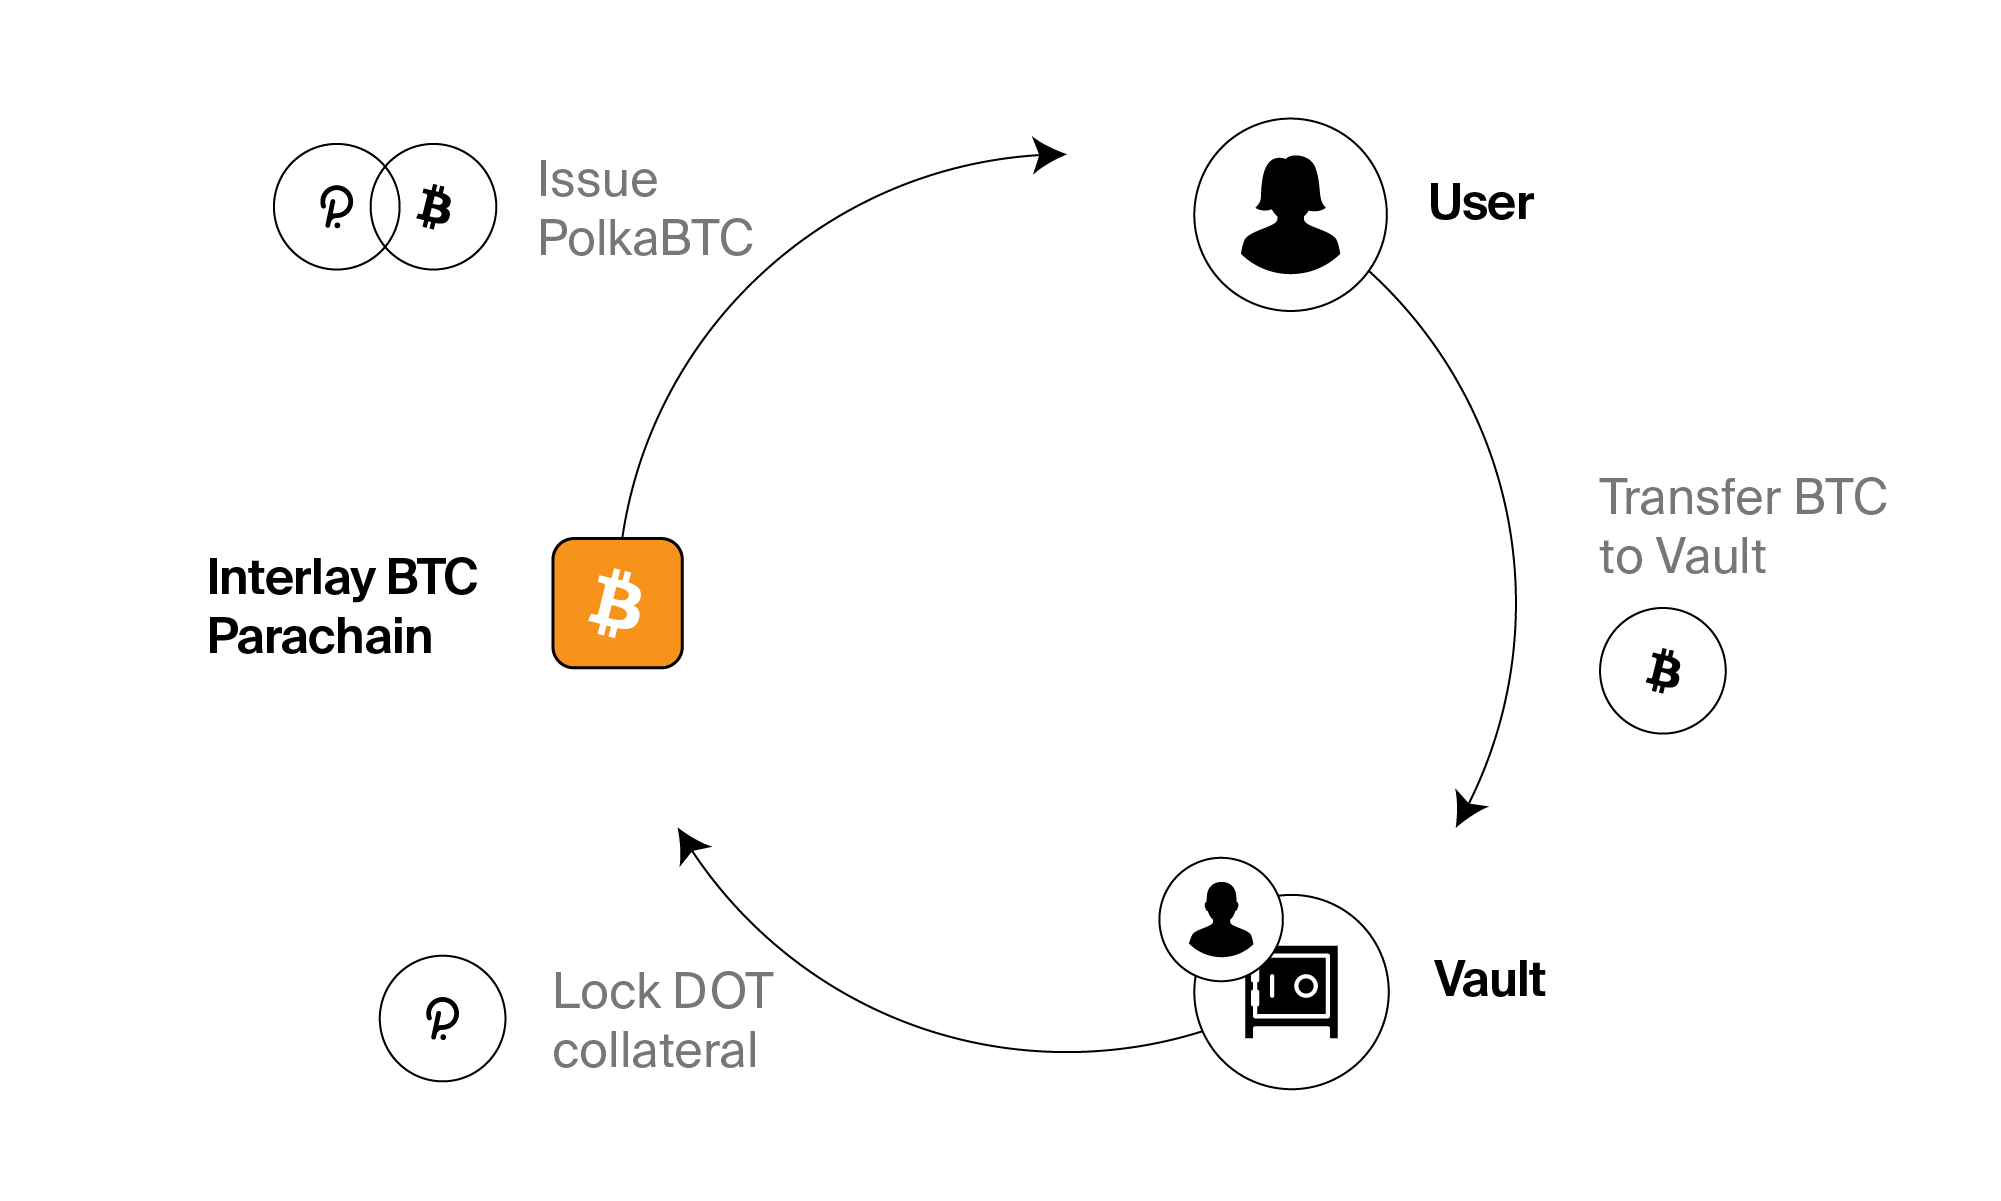
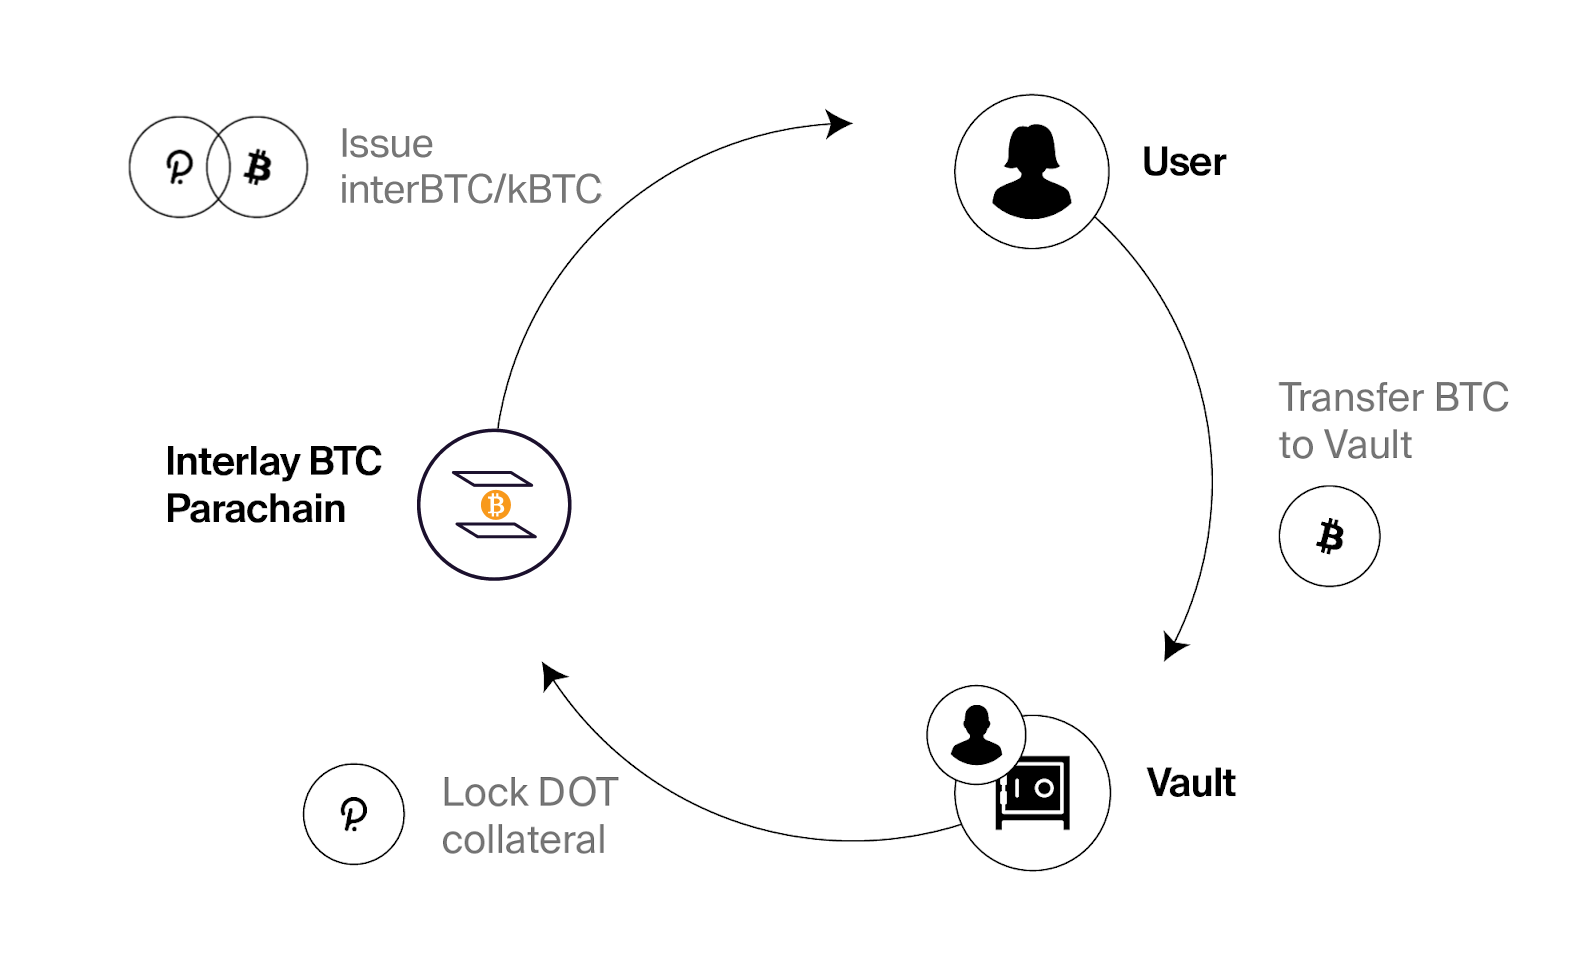
feat: restructuring the documentation and adding a new introduction section

diff --git a/docs/custom.css b/docs/custom.css
@@ -1,19 +1,40 @@
 
 :root {
-  --base-font: 12px;
-  --theme-color   :#1A0A2D;
-  --sidebar-padding: 0 25px;
-  --navbar-menu-padding: 0.5em 2em 0.5em 0.5em;
-  --primary-blue: #075ABC;
-  --secondary-teal: #1EE0D6;
-  --secondary-green: #A2E75E;
-  --secondary-blue: #3E96FF;
-  --secondary-purple: #A65AFF;
-  --secondary-pink: #DB5AAD;
-  --secondary-bitcoin: #FF9900;
-  --theme-color: var(--primary-blue);
+
+  /* Base config */
+  --base-font-size      : 16px;
+  --sidebar-padding     : 0 25px;
+  --navbar-menu-padding : 0.5em 2em 0.5em 0.5em;
+
+
+  /* Theme and Colors */
+  --primary-interlay    : #1A0A2D;
+  --primary-blue        : #075ABC;
+  --secondary-teal      : #1EE0D6;
+  --secondary-green     : #A2E75E;
+  --secondary-blue      : #3E96FF;
+  --secondary-purple    : #A65AFF;
+  --secondary-pink      : #DB5AAD;
+  --secondary-bitcoin   : #FF9900;
+  --theme-color         : var(--primary-interlay);
+  --primary-blue-shade  : hsl(212, 30%, 38%); 
+  --hover-color         : #D3D3D3;
+
+  /* Links */
+  --link-color                        : var(--primary-blue);
+  --link-text-decoration              : none;
+  --link-text-decoration--hover       : underline;
+
+
+  /* Sidebar */
+  --sidebar-nav-link-color--active              : var(--primary-blue);
+  --sidebar-nav-link-background-color--hover     : var(--hover-color);
+  --sidebar-nav-link-text-decoration--hover     : none;
+  --sidebar-nav-strong-color                    : var(--secondary-purple );
+  --sidebar-nav-strong-font-size                : ;
+
 }
 
 .app-name-link img {
-  width: 5em;
+  width: 10em;
 }

diff --git a/docs/index.html b/docs/index.html
@@ -27,8 +27,8 @@
       auto2top: true,
       themeColor: '#1A0A2D',
       mergeNavbar: true,
-      name: 'Docs',
-      logo: './_assets/img/InterBTC_Icon_RGB.svg',
+      name: 'Interlay and Kintsugi Documentation',
+      logo: './_assets/img/Interlay_Horizontal_RGB.svg',
       repo: 'https://github.com/interlay/interbtc-docs',
       search: 'auto',
       tabs: {

diff --git a/docs/getting-started/interbtc.md b/docs/getting-started/interbtc.md
@@ -1,0 +1,118 @@
+# interBTC: Bitcoin on Any Blockchain
+
+
+## Overview 
+
+interBTC is a 1:1 Bitcoin backed asset that can be used to invest, earn and pay with BTC across the DeFi ecosystem on Polkadot, Ethereum, Cosmos and many more. 
+
+While interBTC exists, BTC held locked by Vaults on Bitcoin - individuals or service providers who 
+ - (1) receive BTC into custody for safekeeping while interBTC exists,
+ - (2) lock collateral in a MakerDAO-inspired multi-collateral system to protect users against theft and loss of BTC. 
+
+
+The life-cycle of interBTC follows four main phases:
+
+![Cryptocurrency-backed Assets](../_assets/img/CbA.jpg)
+
+- **Lock:** Lock your BTC with a Vault. Pick one, or run your own. Your BTC is always safe and insured by Vault collateral.
+- **Mint:** Get interBTC at a 1:1 ration to your locked BTC.
+- **BTC DeFi:** Earn on your Bitcoin. Use interBTC as collateral, for lending, yield farming and more. On Polkadot, Kusama, Cosmos, Ethereum and other major DeFi platforms.
+- **Redeem:** Redeem interBTC for actual BTC on Bitcoin - trustless and anytime you want.
+
+
+
+## interBTC Security
+
+What makes interBTC unique is the strict dedication to being trustless and decentralized.
+
+- **Secured by Insurance**. Vaults lock collateral on the interBTC parachain in various digital assets - in a MakerDAO-inspired multi-collateral system. If Vaults misbehave, their collateral is slashed and users reimbursed. As a user, you only trust that Bitcoin and the DeFi platform you use are secure.
+
+- **Radically Open**. Anyone can become a Vault and help secure interBTC, anytime. Yes, you can run your own Vault!
+
+Hence, as a holder of interBTC, you have the following guarantee:
+
+?> You can always redeem interBTC for BTC, or be reimbursed in the collateral currency at a beneficial rate.
+
+In the a Vault misbehaves, you will be reimbursed from the Vault’s collateral and will end up making a *profitable* trade between BTC and and the collateral asset(s). 
+
+At launch, collateral will be put down in DOT. In the mid/long run, this may be extended to stablecoins or token-sets to improve stability.
+
+Summarizing, to trust interBTC, you only need to:
+
+- *Trust that Bitcoin is secure*. Meaning: trust that Bitcoin blocks are final after X confirmations. The bridge will recommend a minimum of 6 confirmations, though users and apps are encouraged to set higher thresholds.
+- *Trust that Polkadot / the chain you are using interBTC on is secure* . This assumption is made by all applications running on top of Polkadot.
+
+?> interBTC is based on the XCLAIM framework - a peer-reviewed paper published at IEEE S&P, one of the most prestigious security conferences. You can [read the paper](https://eprint.iacr.org/2018/643.pdf) and checkout more of the [research published by the team behind Interlay](../about/research).
+
+
+?> A more in-depth discussion about security can be found in the 200+ page [specification](https://spec.interlay.io/security_performance/liquidations.html).
+
+## Network Participants
+
+XCLAIM’s design has an emphasis on being open and permissionless. As such, any user can take up multiple roles at the same — but also leave the system whenever they wish. As such, to participate in the BTC Parachain, you can choose from:
+
+**Vaults:** collateralized intermediaries who hold BTC locked on Bitcoin. Any user can become a Vault by simply locking DOT collateral. The requirements are (1) a Bitcoin full node, (2) a Polkadot account and (3) liquidity in accepted collateral assets.
+
+**Users:** there are two types of user on the BTC Parachain:
+
+- **Liquidity Providers** lock BTC with Vaults to mint 1:1 backed *interBTC* on the Parachain. Requirement: (1) Bitcoin wallet and (2) Polkadot wallet.
+
+- **End-Users** obtain interBTC from liquidity providers on Polkadot and use interBTC for payments and with applications. Requirements: Polkadot wallet
+
+Both can redeem owned interBTC for BTC at any time (requires a Bitcoin wallet).
+
+
+**Collators** maintain the Interlay parachain by collecting transactions and producing security proofs which are verified by validators of the Polkadot Relay Chain. This is a Polkadot-specific role. [Read more about Collators in the Polkadot Wiki](https://wiki.polkadot.network/docs/learn-collator).
+
+Parachain’s NPoS consensus, as per Polkadot consensus rules. Requirement: (1) Parachain full node and (2) DOTs.
+
+<div id="step-by-step"></div>
+
+## Mint and Redeem
+
+### Wrap BTC to mint interBTC
+
+A user (liquidity provider) mints new interBTC.
+
+1. A Vault locks DOT as collateral with the interBTC bridge (the Interlay BTC Parachain).
+
+1. A user creates an issue request with a collateralized Vault of his choosing. This reserves the Vault’s DOT collateral.
+
+1. The user then sends BTC to the Vault.
+
+1. The user proofs to the interBTC bridge that it send the BTC to the vault (using a transaction inclusion proof against the BTC Relay).
+
+1. Upon successful verification of the proof, the user mints interBTC and receives the tokens to his or her account balance.
+
+![High-level interBTC Issue process](../_assets/img/issue.png) *High-level interBTC Issue process*
+
+### Redeem interBTC for BTC
+
+A user redeems interBTC for the equivalent amount of BTC or receives DOT as reimbursement.
+
+1. To request a redeem, a user locks interBTC with the interBTC bridge (Interlay BTC Parachain).
+
+1. The Parachain instructs a Vault to execute the redeem.
+
+1. The Vault transfers the correct amount of BTC to the user.
+
+1. To unlock the DOT collateral, the Vault submits a transaction inclusion proof to BTC-Relay.
+
+1. If the proof is correct, the Parachain releases the Vault’s DOTs.
+
+1. If no valid proof is provided on time, the Parachain slashes the Vault’s DOTs and reimburses the user at a beneficial exchange rate.
+
+![High-level interBTC Redeem process](../_assets/img/redeem.png)*High-level interBTC Redeem process*
+
+
+## interBTC vs kBTC
+
+The flagship product of both Kintsugi and Interlay is “trustless Bitcoin for DeFi”. 
+
+kBTC on Kintsugi. interBTC on Interlay.
+
+interBTC and kBTC are the same product at the core, with different parameterizations and risk profiles. Specifically, they will have different backing collaterals and security thresholds.
+
+- **interBTC**. Only assets with large liquidity, which pass a rigorous security analysis, will be accepted as collateral for interBTC — similar to the MakerDAO process for DAI.
+
+- **kBTC**, on the other hand, will be open to more experimental assets, including such that have lower liquidity — e.g. new forms of staking derivatives, LP tokens, young DeFi assets, perhaps even NFTs.

diff --git a/docs/README.md b/docs/README.md
@@ -1,31 +1,26 @@
-# InterBTC & Kintsugi Documentation
+# Interlay & Kintsugi Documentation
+### Invest, earn and pay with BTC on any blockchain. Radically open and secured by insurance.
 
-## Radically Open Bitcoin for Decentralized Finance
 
-**interBTC** is Bitcoin on any blockchain. A 1:1 Bitcoin-backed asset, fully collateralized, interoperable, and censorship-resistant. interBTC will be hosted as a Polkadot parachain and connected to Cosmos, Ethereum and other major DeFi networks.
+### Introduction
 
-**Kintsugi** is interBTC's canary network, an experiment with real economic value deployed on Kusama. Kintsugi and interBTC share the same code base - with the difference that Kintsugi focusses strictly on innovation and will always be ahead in terms of features.
+Interlay is a decentralized network dedicated to connecting crypto-*currencies* like Bitcoin with DeFi *platforms* like Polkadot and Ethereum. The Interlay network is hosted as a Polkadot parachain and will be connected to Cosmos, Ethereum and other major DeFi networks.
+[Read more about Interlay's vision of blockchain interoperability](https://medium.com/interlay/the-future-of-bridging-assets-837998115f6b).
 
-![Cryptocurrency-backed Assets](_assets/img/CbA.jpg)
+**interBTC**, Interlay's flagshipt product, is Bitcoin on any blockchain. A 1:1 Bitcoin-backed asset, fully collateralized, interoperable, and censorship-resistant. 
 
-### Issue, Trade, and Redeem
+**Kintsugi** is Interlay's canary network, an experiment with real economic value deployed on Kusama. Kintsugi and Interlay share the same code base - with the difference that Kintsugi focusses strictly on innovation and will always be ahead in terms of features. [Read more about Interlay's dual network model](https://medium.com/interlay/the-interlay-parachain-is-coming-to-polkadot-552a57ff8d1b).
 
-The life-cycle of interBTC follows the three main protocols:
 
-- **Issue:** Lock your BTC with a Vault. Pick one, or run your own. Your BTC is always safe and insured by Vault collateral.
-- **Mint:** Get interBTC at a 1:1 ration to your locked BTC.
-- **BTC DeFi:** Earn on your Bitcoin. Use interBTC as collateral, for lending, yield farming and more. On Polkadot, Kusama, Cosmos, Ethereum and other major DeFi platforms.
-- **Redeem:** Redeem interBTC for actual BTC on Bitcoin - trustless and anytime you want.
+### Docs vs Specification vs Code
 
-### Radically Open & Secured by Insurance
+ - **This documentation** is aimed at anyone who is interested to learn about Interlay and Kintsugi, users of interBTC and operators of Vaults and Collators. 
 
-What makes interBTC unique is the strict dedication to being trustless and decentralized.
+ - We also maintain a **[200+ page specification](https://spec.interlay.io/index.html)** for internal use, audits, and formal verification. If you are a developer, researcher, hacker or simply want to learn how exactly Interlay (specifically, interBTC) - the specification is the next best resource apart from reading the [open source code](https://github.com/interlay).
 
-- **Secured by Insurance**. Vaults lock collateral on the interBTC parachain in various digital assets - in a MakerDAO-inspired multi-collateral system. If Vaults misbehave, their collateral is slashed and users reimbursed. As a user, you only trust that Bitcoin and the DeFi platform you use are secure.
+ - Finally, if you can code - you can also read the [open source code](https://github.com/interlay).
 
-- **Radically Open**. Anyone can become a Vault and help secure interBTC, anytime. Yes, you can run your own Vault!
-
-## Guides
+### Quicklinks
 
 **1.  [Learn about Kintsugi, the canary network on Kusama - going live NOW](kintsugi/overview.md)**
 
@@ -41,6 +36,6 @@ What makes interBTC unique is the strict dedication to being trustless and decen
 
 **7.  [Build your own Dapps with interBTC](developers/integration.md)**
 
-## Contributions
+### Contributions
 
 interBTC and Kintsugi are an open-source projects. We welcome contributions to the code and documentation. Feel free to checkout our [GitHub](https://github.com/interlay) and [Discord](https://discord.gg/KgCYK3MKSf).

diff --git a/docs/getting-started/interlay-101.md b/docs/getting-started/interlay-101.md
@@ -1,0 +1,9 @@
+# Interlay Network 101
+
+Interlay is a decentralized network dedicated to connecting crypto-currencies like Bitcoin with DeFi platforms like Polkadot and Ethereum. The Interlay network is hosted as a Polkadot parachain and will be connected to Cosmos, Ethereum and other major DeFi networks. Read more about Interlay’s vision of blockchain interoperability.
+
+**[interBTC](/getting-started/overview?id=interbtc-bitcoin-on-any-blockchain)**, Interlay’s flagshipt product, is Bitcoin on any blockchain. A 1:1 Bitcoin-backed asset, fully collateralized, interoperable, and censorship-resistant.
+
+**[Kintsugi](../kintsugi/overview)** is Interlay’s canary network, an experiment with real economic value deployed on Kusama. Kintsugi and Interlay share the same code base - with the difference that Kintsugi focusses strictly on innovation and will always be ahead in terms of features. Read more about Interlay’s dual network model.
+
+

diff --git a/docs/_sidebar.md b/docs/_sidebar.md
@@ -1,5 +1,13 @@
 <!-- docs/_sidebar.md -->
 
+* [Interlay Documentation](/)
+
+* **Getting Started**
+
+  * [Interlay Network 101](getting-started/interlay-101.md)
+  * [interBTC](getting-started/interbtc.md)
+---
+
 * **Kintsugi (Kusama)**
 
   * [Overview](kintsugi/overview.md)
